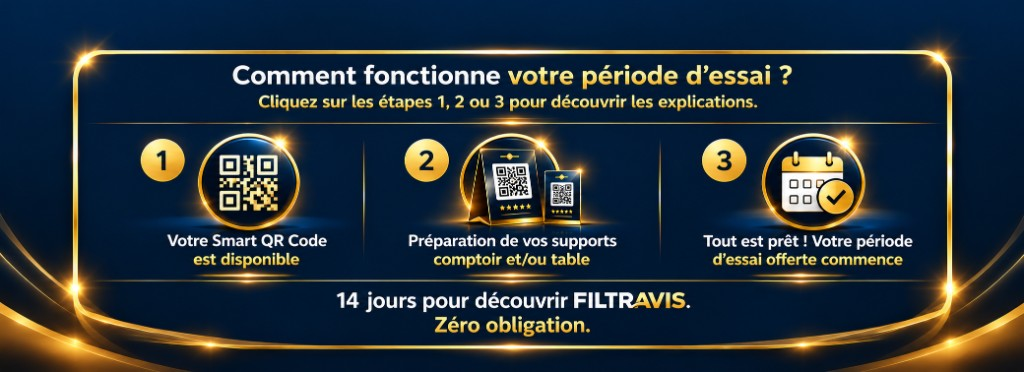
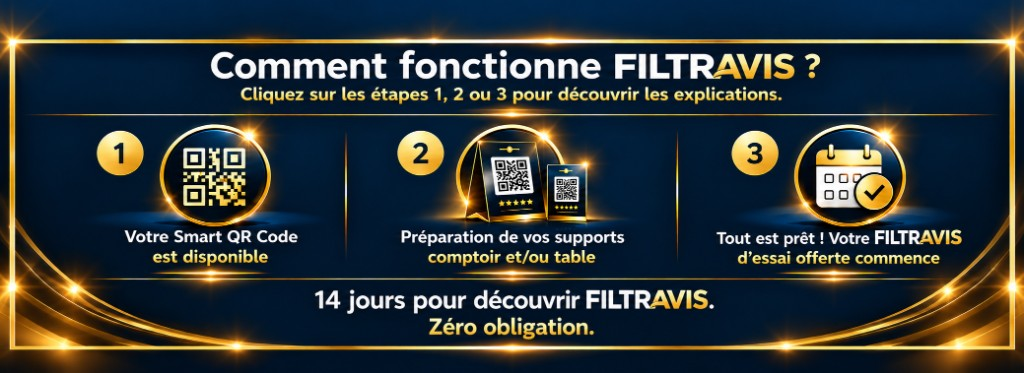
feat: scinder la landing FILTRAVIS, bandeau Protection et header Stop aux mauvais Avis.

diff --git a/components/trial-steps-banner.tsx b/components/trial-steps-banner.tsx
@@ -1,6 +1,5 @@
 "use client";
 
-import Link from "next/link";
 import { useState } from "react";
 
 const STEPS = [
@@ -8,19 +7,19 @@ const STEPS = [
     id: 1,
     title: "Étape 1 — Votre Smart QR Code est disponible",
     body: "Le texte de cette étape arrive bientôt.",
-    style: { left: "6%", top: "73%", width: "28%", height: "16%" },
+    style: { left: "6.5%", top: "30%", width: "28%", height: "50%" },
   },
   {
     id: 2,
     title: "Étape 2 — Préparation de vos supports",
     body: "Le texte de cette étape arrive bientôt.",
-    style: { left: "36%", top: "73%", width: "28%", height: "16%" },
+    style: { left: "36%", top: "30%", width: "28%", height: "50%" },
   },
   {
     id: 3,
     title: "Étape 3 — Votre période d’essai offerte commence",
     body: "Le texte de cette étape arrive bientôt.",
-    style: { left: "66%", top: "73%", width: "28%", height: "16%" },
+    style: { left: "65.5%", top: "30%", width: "28%", height: "50%" },
   },
 ] as const;
 
@@ -37,7 +36,7 @@ const STEP_VISUALS = {
     src: "/modale-etape-2-filtravis.jpg?v=1",
     alt: "Téléchargez votre Smart QR Code. Choisissez vos supports, utilisez des fournisseurs professionnels et maximisez vos résultats.",
     ariaLabel: "Téléchargez votre Smart QR Code",
-    maxClass: "max-w-[720px]",
+    maxClass: "mt-16 max-w-[840px]",
     closeX: { left: "88.5%", top: "1.6%", width: "10%", height: "9.5%" },
     closeBtn: { left: "33%", top: "83.8%", width: "34%", height: "6.8%" },
   },
@@ -51,9 +50,6 @@ const STEP_VISUALS = {
   },
 } as const;
 
-const ctaClassName =
-  "absolute z-10 cursor-pointer rounded-full focus:outline-none focus-visible:ring-2 focus-visible:ring-locall-orange focus-visible:ring-offset-2";
-
 const closeHotspotClass =
   "absolute z-10 cursor-pointer rounded-full bg-transparent focus:outline-none focus-visible:ring-2 focus-visible:ring-[#e0a825] focus-visible:ring-offset-2";
 
@@ -65,31 +61,9 @@ export function TrialStepsBanner() {
   return (
     <div className="filtravis-shell relative leading-none">
       <img
-        src="/page-accueil-filtravis.jpg?v=4"
-        alt="FILTRAVIS — Chaque avis compte. Essayez gratuitement pendant 14 jours."
+        src="/bandeau-filtravis-essai.jpg?v=2"
+        alt="Comment fonctionne FILTRAVIS ? Cliquez sur les étapes 1, 2 ou 3 pour découvrir les explications."
         className="block h-auto w-full"
-      />
-      <Link
-        href="/inscription"
-        aria-label="Essayez gratuitement pendant 14 jours"
-        className={ctaClassName}
-        style={{
-          left: "31.5%",
-          top: "25.6%",
-          width: "42%",
-          height: "4.2%",
-        }}
-      />
-      <Link
-        href="/inscription"
-        aria-label="Essayez gratuitement pendant 14 jours"
-        className={ctaClassName}
-        style={{
-          left: "26.5%",
-          top: "59.5%",
-          width: "47%",
-          height: "4.4%",
-        }}
       />
       {STEPS.map((step) => (
         <button

diff --git a/components/landing-hero.tsx b/components/landing-hero.tsx
@@ -1,0 +1,40 @@
+import Link from "next/link";
+
+const ctaClassName =
+  "absolute z-10 cursor-pointer rounded-full focus:outline-none focus-visible:ring-2 focus-visible:ring-locall-orange focus-visible:ring-offset-2";
+
+export function LandingHero() {
+  return (
+    <div className="filtravis-shell leading-none">
+      <div className="relative">
+        <img
+          src="/page-accueil-filtravis.jpg?v=7"
+          alt="FILTRAVIS — Chaque avis compte. Stop aux mauvais avis*."
+          className="block h-auto w-full"
+        />
+        <Link
+          href="/inscription"
+          aria-label="Stop aux mauvais avis*"
+          className={ctaClassName}
+          style={{
+            left: "31.5%",
+            top: "38.8%",
+            width: "42%",
+            height: "6.4%",
+          }}
+        />
+        <Link
+          href="/inscription"
+          aria-label="Essayez gratuitement pendant 14 jours"
+          className={ctaClassName}
+          style={{
+            left: "26.5%",
+            top: "90.3%",
+            width: "47%",
+            height: "6.7%",
+          }}
+        />
+      </div>
+    </div>
+  );
+}

diff --git a/components/site-brand.tsx b/components/site-brand.tsx
@@ -8,15 +8,16 @@ export function TrialCtaLink({
   return (
     <Link
       href="/inscription"
-      className={`inline-block leading-tight no-underline hover:opacity-90 ${className}`}
+      aria-label="Stop aux mauvais Avis — Essai gratuit 14 jours"
+      className={`inline-block leading-none no-underline hover:opacity-90 ${className}`}
     >
-      <span className="block text-sm font-semibold text-white">
-        Essai gratuit
+      <span className="block whitespace-nowrap text-sm font-semibold leading-none text-white sm:text-[15px]">
+        Stop aux mauvais Avis
       </span>
-      <span className="block text-xl font-extrabold tracking-tight text-white">
-        14{" "}
-        <span className="text-filtravis-gold underline decoration-[#e0a825] decoration-[3px] underline-offset-4">
-          jours
+      <span className="-mt-0.5 block whitespace-nowrap text-sm font-semibold leading-none text-white">
+        Essai gratuit{" "}
+        <span className="text-xl font-extrabold leading-none tracking-tight text-filtravis-gold">
+          14 jours
         </span>
       </span>
     </Link>

diff --git a/app/page.tsx b/app/page.tsx
@@ -1,3 +1,4 @@
+import { LandingHero } from "@/components/landing-hero";
 import { SiteFooter } from "@/components/site-footer";
 import { SiteHeader } from "@/components/site-header";
 import { TrialStepsBanner } from "@/components/trial-steps-banner";
@@ -8,7 +9,15 @@ export default function Home() {
       <SiteHeader />
 
       <main className="w-full bg-locall-navy leading-none">
+        <LandingHero />
         <TrialStepsBanner />
+        <div className="filtravis-shell">
+          <img
+            src="/bandeau-protection-filtravis.jpg?v=5"
+            alt="Protection à 100 %. Les avis sensibles 1, 2 et 3 étoiles sont recueillis en interne quand le client scanne le QR Code dans votre établissement."
+            className="block h-auto w-full"
+          />
+        </div>
       </main>
 
       <SiteFooter />

diff --git a/app/inscription/page.tsx b/app/inscription/page.tsx
@@ -7,6 +7,16 @@ export default function InscriptionPage() {
     <div className="flex min-h-dvh flex-col bg-background text-foreground">
       <SiteHeader />
 
+      <div className="w-full bg-locall-navy leading-none">
+        <div className="filtravis-shell">
+          <img
+            src="/stop-mauvais-avis-filtravis.jpg?v=2"
+            alt="Stop aux mauvais avis. Essai gratuit 14 jours."
+            className="block h-auto w-full"
+          />
+        </div>
+      </div>
+
       <main className="mx-auto w-full max-w-2xl flex-1 px-4 py-10">
         <section className="card-locall p-6 sm:p-8">
           <h1 className="text-2xl font-bold text-locall-navy">
